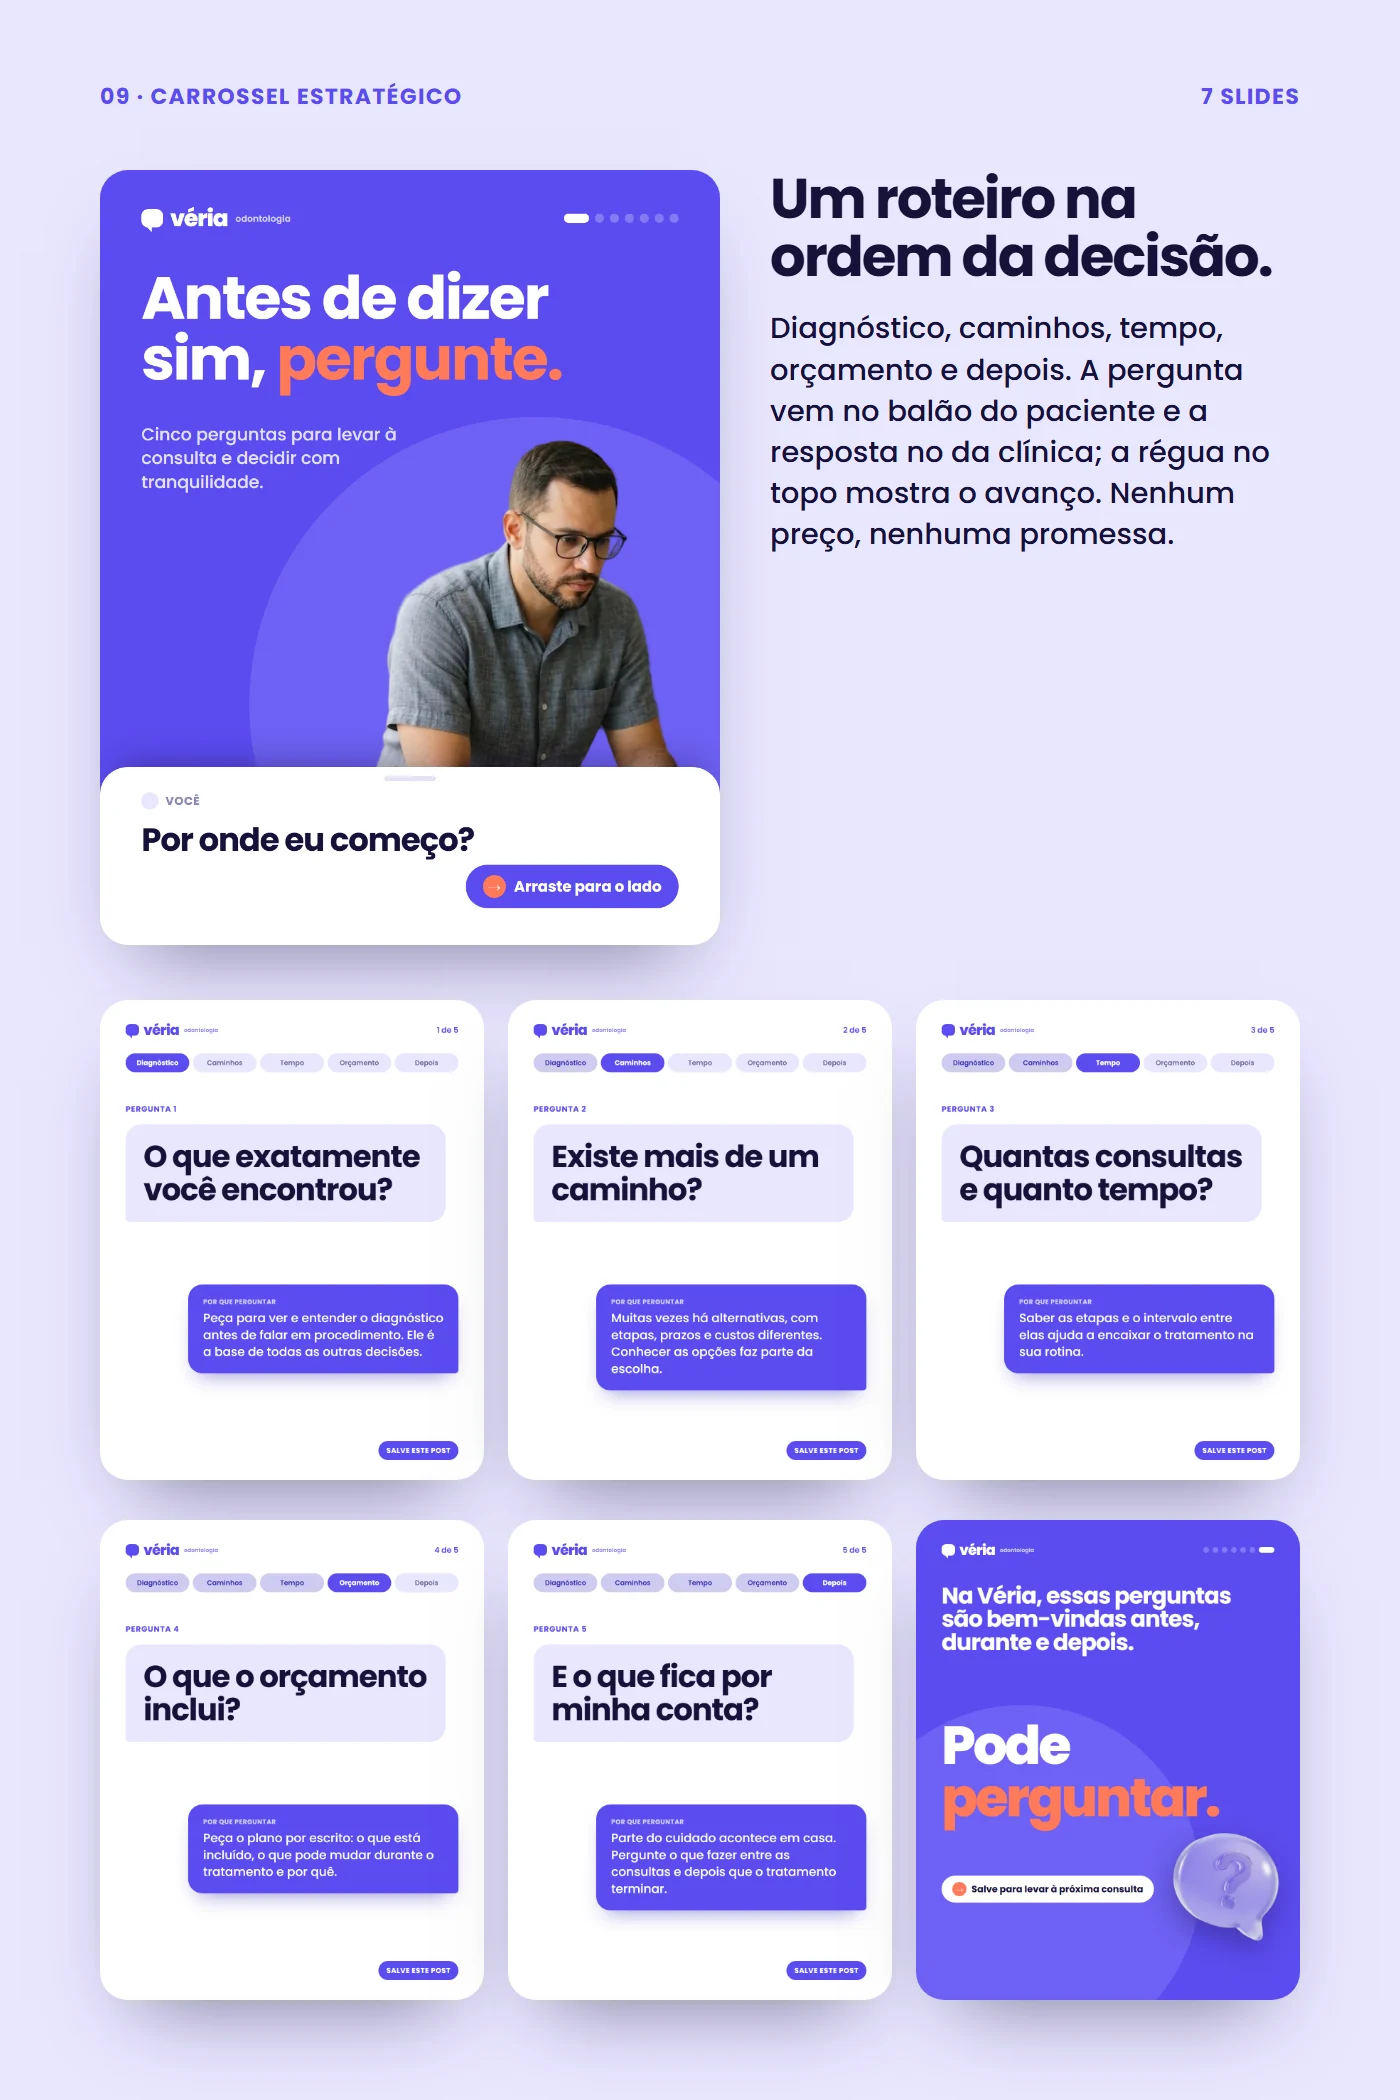
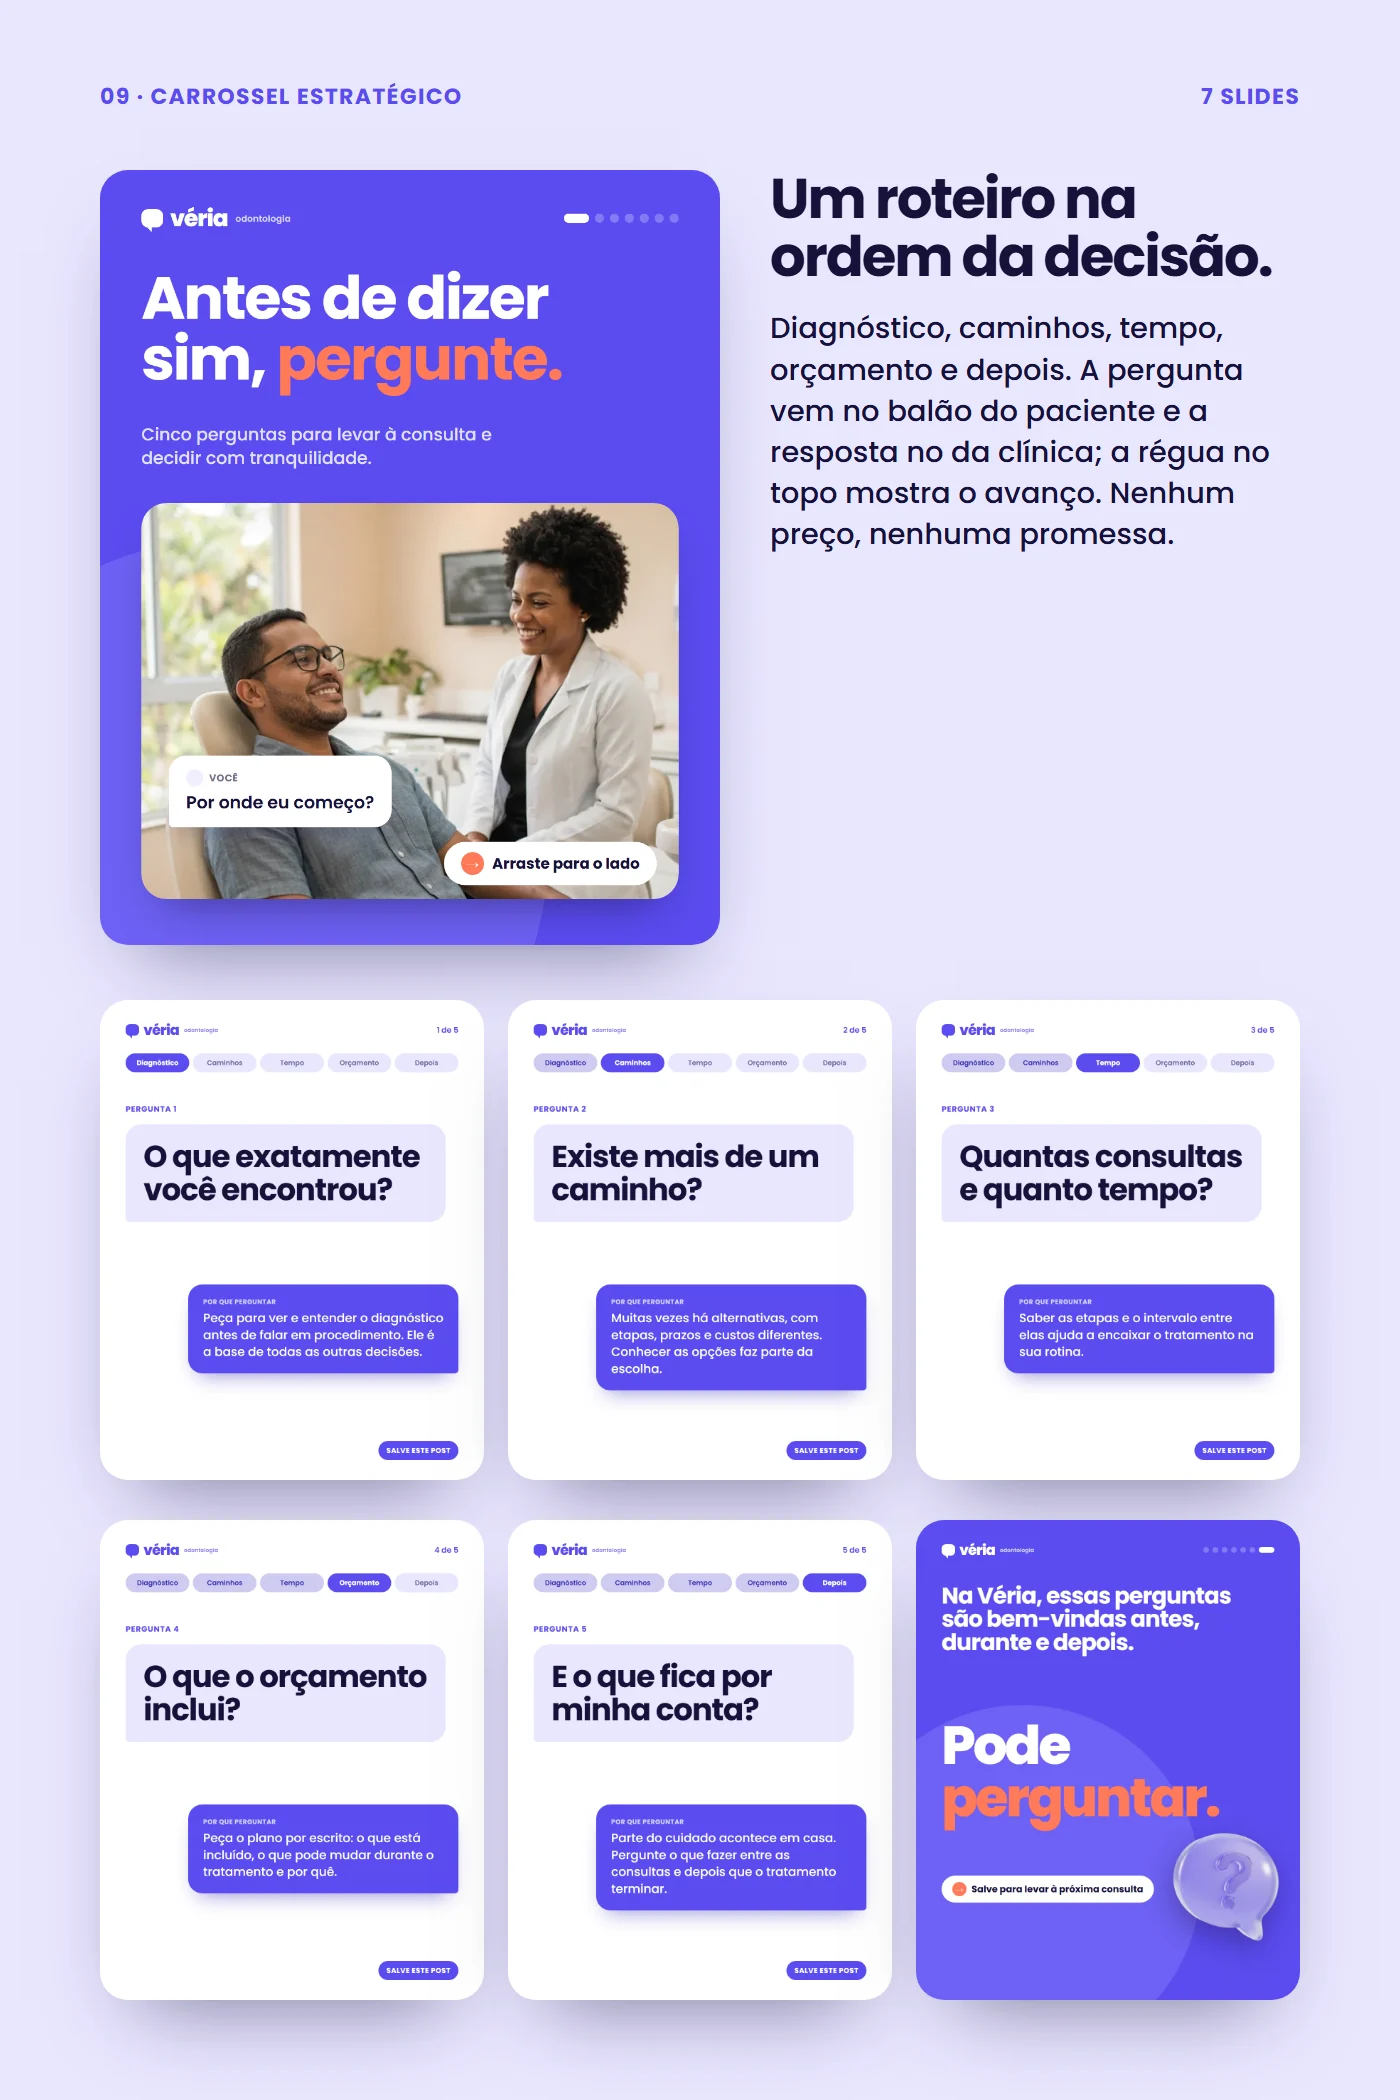
Véria: nova imagem na capa do carrossel 06 (paciente na cadeira)

Changed region(s): [[0.0614, 0.1857, 0.5221, 0.4643]]

diff --git a/projetos/veria-odontologia/index.html b/projetos/veria-odontologia/index.html
@@ -104,7 +104,7 @@ a{color:inherit}
 </div></div>
 
 <div class="grupo"><h3>Carrossel estratégico <span>7 slides</span></h3><div class="trilho">
-<a href="pecas/c06-1.webp"><img src="pecas/c06-1.webp" width="1080" height="1350" loading="lazy" alt="Capa: homem pensativo sobre fundo violeta. Texto: Antes de dizer sim, pergunte."></a>
+<a href="pecas/c06-1.webp"><img src="pecas/c06-1.webp" width="1080" height="1350" loading="lazy" alt="Capa: paciente sorrindo na cadeira odontológica, conversando com a dentista, em foto emoldurada sobre fundo violeta. Texto: Antes de dizer sim, pergunte. Balão: Por onde eu começo?"></a>
 <a href="pecas/c06-2.webp"><img src="pecas/c06-2.webp" width="1080" height="1350" loading="lazy" alt="Pergunta 1: O que exatamente você encontrou?"></a>
 <a href="pecas/c06-3.webp"><img src="pecas/c06-3.webp" width="1080" height="1350" loading="lazy" alt="Pergunta 2: Existe mais de um caminho?"></a>
 <a href="pecas/c06-4.webp"><img src="pecas/c06-4.webp" width="1080" height="1350" loading="lazy" alt="Pergunta 3: Quantas consultas e quanto tempo?"></a>
